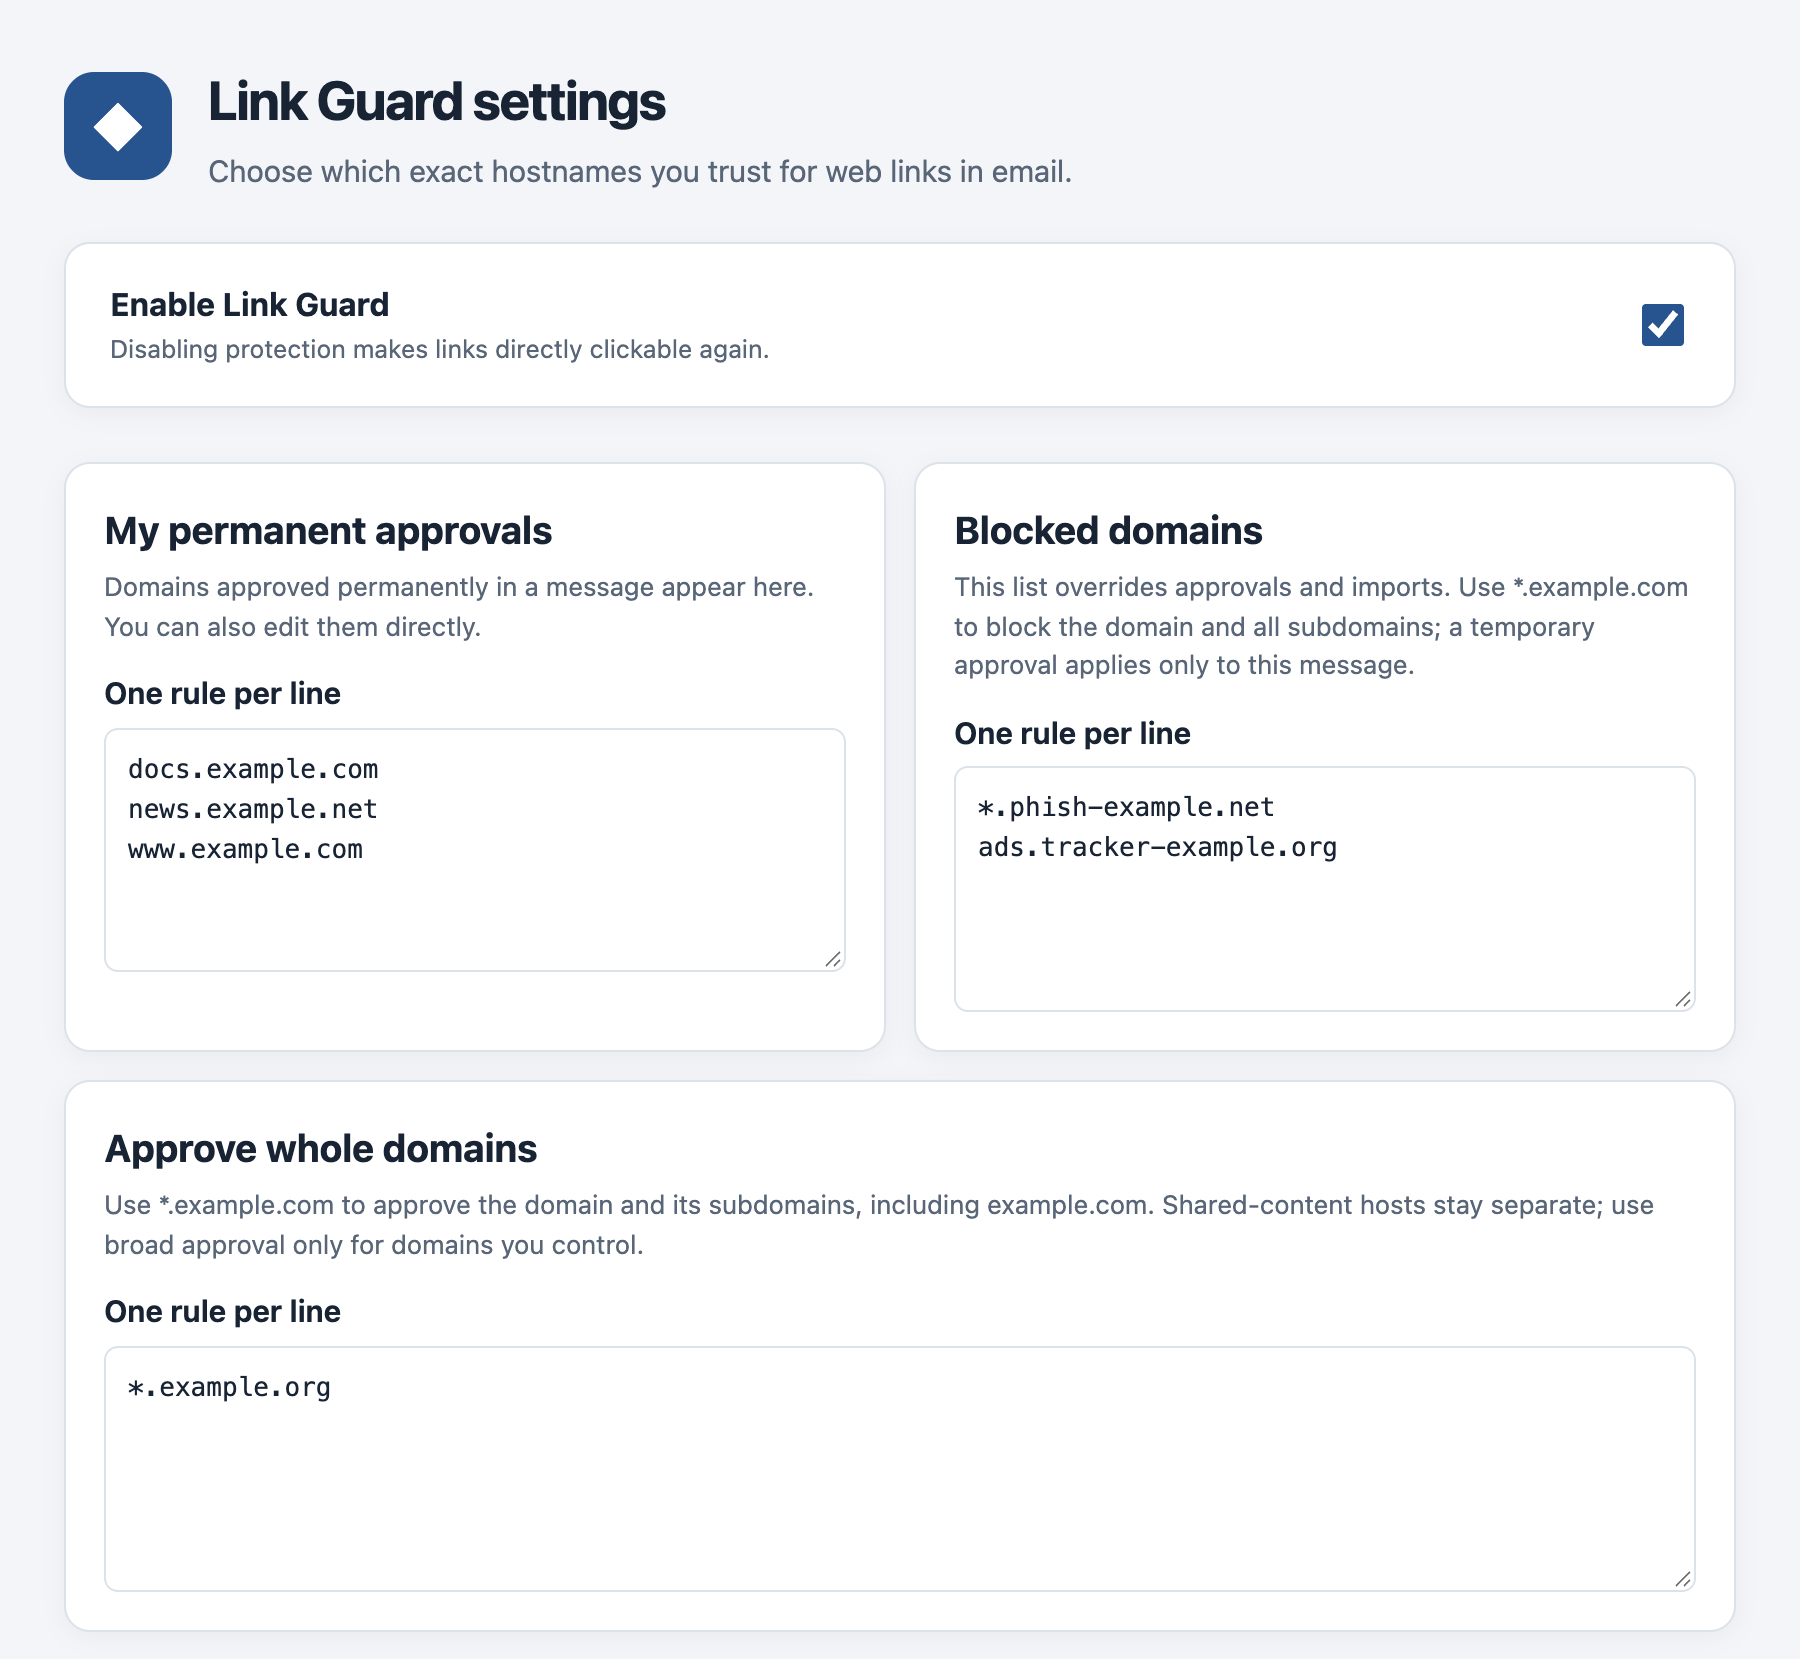
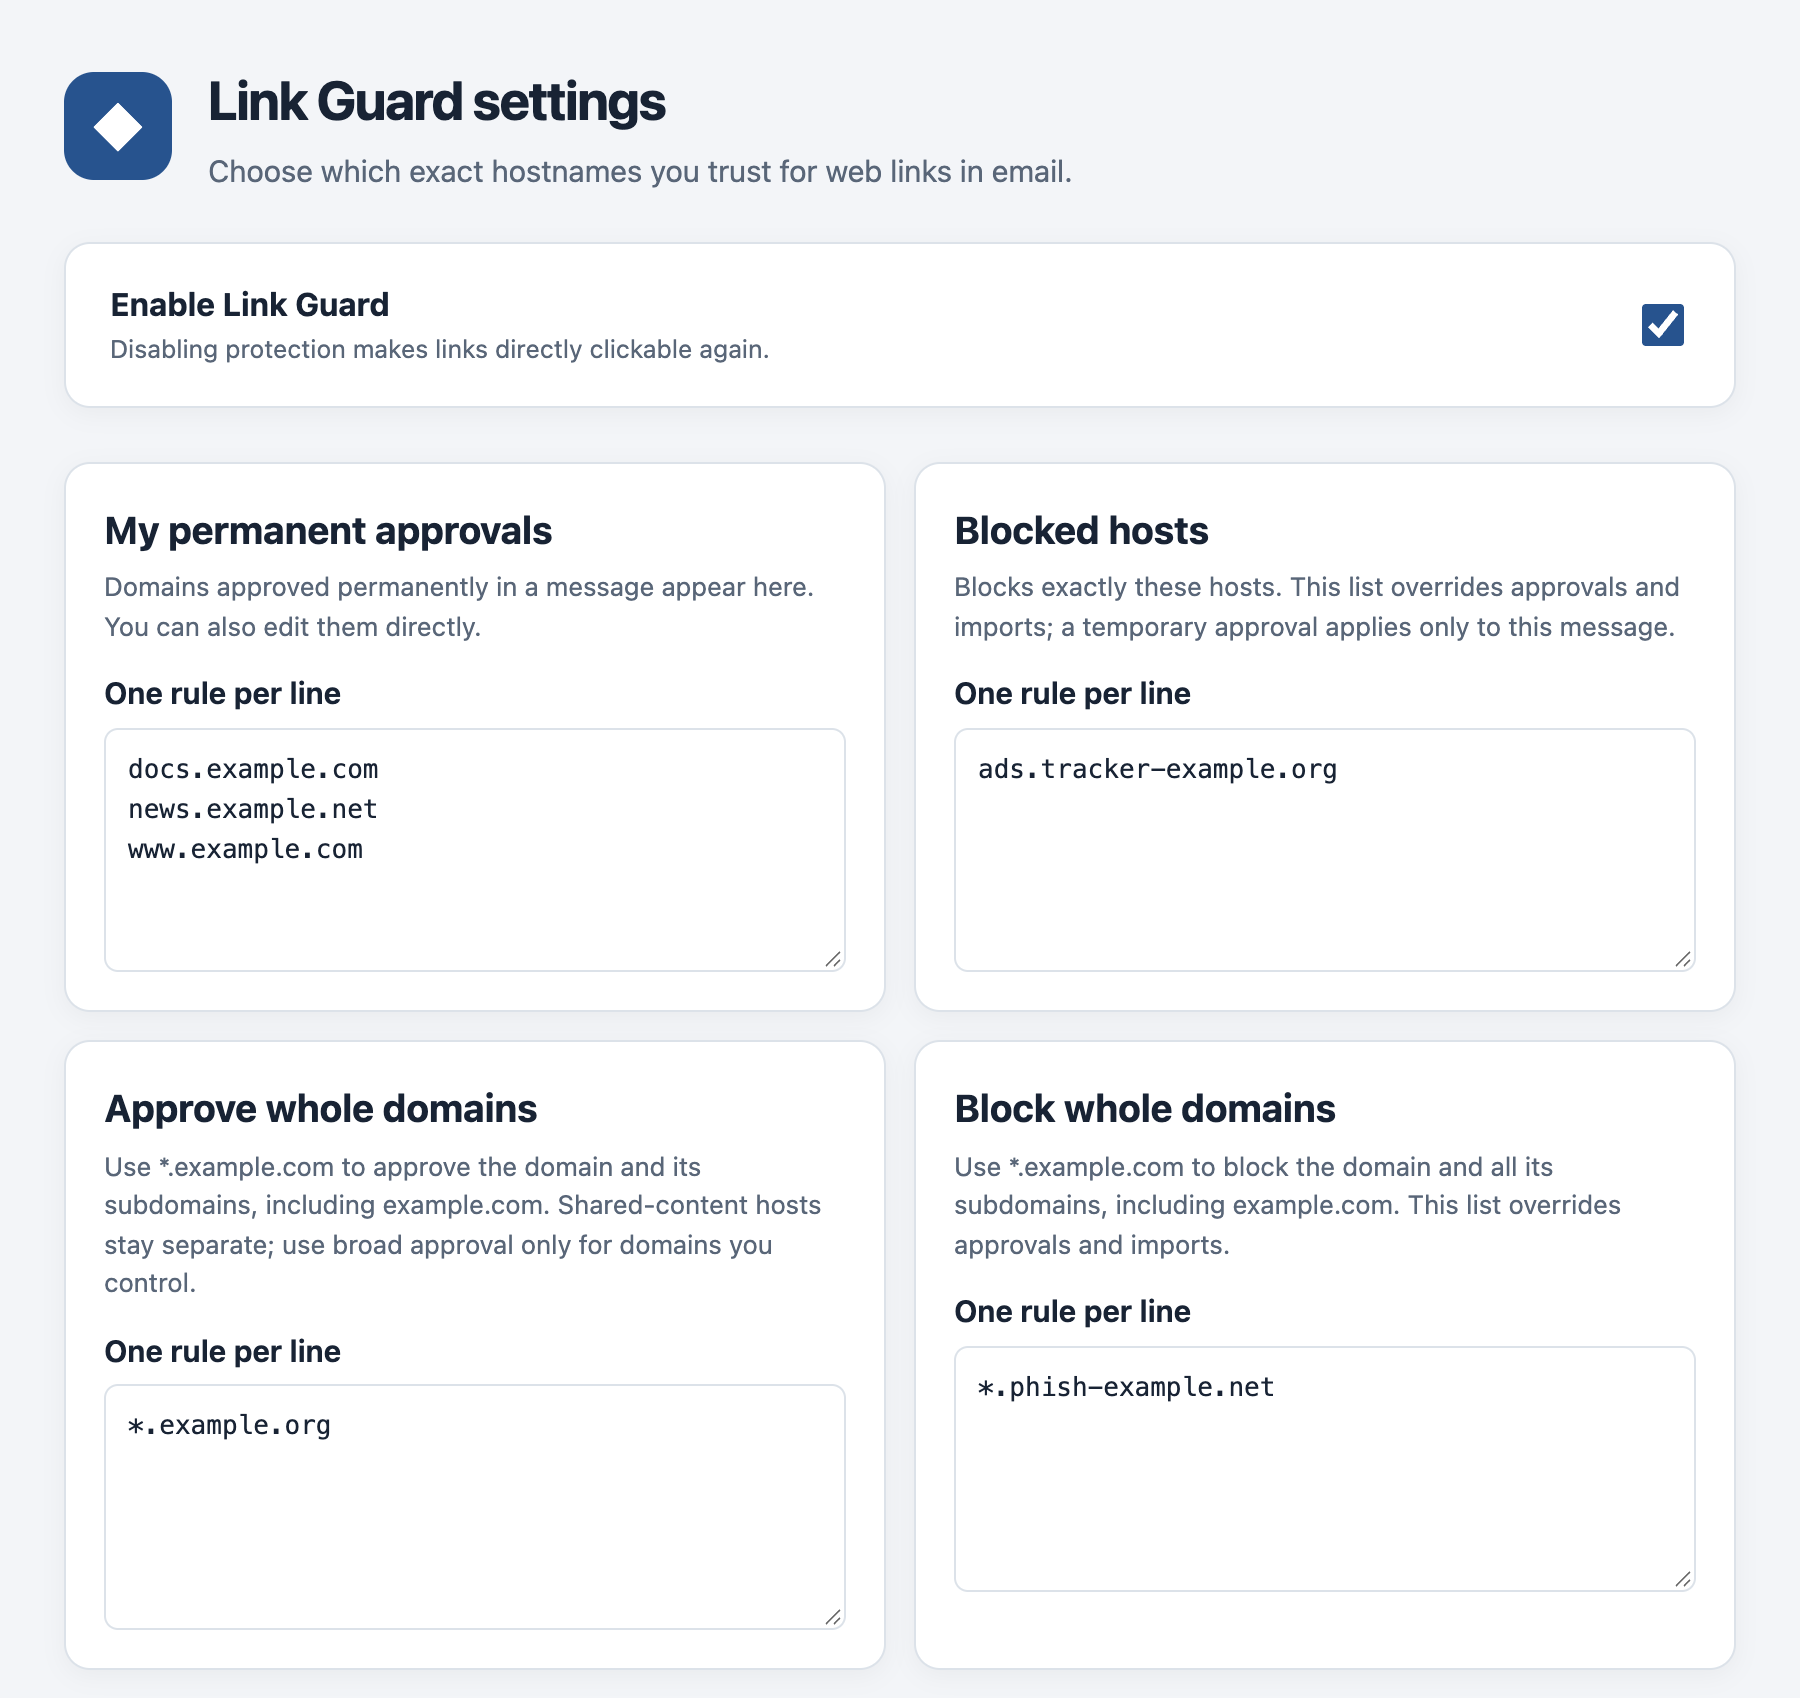
Split settings into separate cards for exact hosts and whole domains
Approvals and blocks now each have an exact-host card and a whole-domain
card. Stored data is unchanged. Adds blockedDomainsTitle/Hint to all 20
locales and refreshes the settings screenshot, README and changelog.

diff --git a/options.js b/options.js
@@ -8,6 +8,7 @@ const enabledInput = document.getElementById("enabled");
 const customInput = document.getElementById("customHosts");
 const blockedInput = document.getElementById("blockedHosts");
 const broadInput = document.getElementById("broadDomains");
+const blockedDomainsInput = document.getElementById("blockedDomains");
 const status = document.getElementById("status");
 const storedKeys = { enabled: true, customAllowedHosts: [], blockedHosts: [],
   blockedDomains: [], broadAllowedDomains: [], importedLists: [] };
@@ -218,8 +219,9 @@ async function load() {
     baseline = snapshot(saved);
     enabledInput.checked = saved.enabled !== false;
     customInput.value = (saved.customAllowedHosts || []).join("\n");
-    blockedInput.value = formatRuleList(saved.blockedHosts || [], saved.blockedDomains || []);
+    blockedInput.value = (saved.blockedHosts || []).join("\n");
     broadInput.value = formatRuleList([], saved.broadAllowedDomains || []);
+    blockedDomainsInput.value = formatRuleList([], saved.blockedDomains || []);
     const imported = document.getElementById("importedLists");
     imported.replaceChildren();
     importedInputs.clear();
@@ -269,9 +271,8 @@ messenger.storage.onChanged.addListener((changes, area) => {
 document.getElementById("save").addEventListener("click", async () => {
   try {
     const customAllowedHosts = readHosts(customInput, t("customTitle"));
-    const blockedRules = readRules(blockedInput, t("blockedTitle"));
-    const blockedHosts = blockedRules.hosts;
-    const blockedDomains = blockedRules.domains;
+    const blockedHosts = readHosts(blockedInput, t("blockedTitle"));
+    const blockedDomains = readRules(blockedDomainsInput, t("blockedDomainsTitle"), true).domains;
     const broadAllowedDomains = readRules(broadInput, t("broadTitle"), true).domains;
     const importedLists = [];
     const importedWildcards = [];
@@ -306,8 +307,9 @@ document.getElementById("save").addEventListener("click", async () => {
     baseline = snapshot(updated);
     dirty = false;
     customInput.value = customAllowedHosts.join("\n");
-    blockedInput.value = formatRuleList(blockedHosts, blockedDomains);
+    blockedInput.value = blockedHosts.join("\n");
     broadInput.value = formatRuleList([], broadAllowedDomains);
+    blockedDomainsInput.value = formatRuleList([], blockedDomains);
     showStatus(t("settingsSaved"));
   } catch (error) {
     showStatus(error.message?.includes(": ") ? error.message : t("settingsSaveFailed"), true);

diff --git a/options.css b/options.css
@@ -50,7 +50,6 @@ input[type="checkbox"] { width: 21px; height: 21px; accent-color: #27538e; curso
 .imported-card textarea { margin-top: 8px; min-height: 98px; }
 .two-column { display: grid; grid-template-columns: repeat(2, minmax(0, 1fr)); gap: 14px; }
 .list-card { padding: 19px; }
-.list-card:last-child { grid-column: 1 / -1; }
 .list-card p { margin-bottom: 12px; font-size: 13px; }
 .list-card label { display: block; margin-bottom: 6px; font-weight: 650; }
 textarea { display: block; width: 100%; resize: vertical; padding: 10px 11px; border: 1px solid var(--line); border-radius: 7px; background: var(--card); color: var(--text); font: 13px/1.55 ui-monospace, SFMono-Regular, Menlo, monospace; }
@@ -73,4 +72,4 @@ input[type="url"]:focus-visible, input[type="file"]:focus-visible { outline: 2px
 #status { margin: 0; min-height: 1.5em; white-space: pre-line; color: var(--muted); }
 #status.error { color: #b02e3e; }
 #save { border: 0; border-radius: 7px; padding: 10px 16px; background: #27538e; color: #fff; font: 650 14px system-ui, sans-serif; cursor: pointer; white-space: nowrap; }
-@media (max-width: 650px) { main { padding: 22px 14px 35px; } .two-column { grid-template-columns: 1fr; } .list-card:last-child { grid-column: auto; } .save-bar, .import-url-row { align-items: stretch; flex-direction: column; } }
+@media (max-width: 650px) { main { padding: 22px 14px 35px; } .two-column { grid-template-columns: 1fr; } .save-bar, .import-url-row { align-items: stretch; flex-direction: column; } }

diff --git a/english.js b/english.js
@@ -266,10 +266,16 @@ globalThis.LinkGuardEnglish = {
     "message": "Domains approved permanently in a message appear here. You can also edit them directly."
   },
   "blockedTitle": {
-    "message": "Blocked domains"
+    "message": "Blocked hosts"
   },
   "blockedHint": {
-    "message": "This list overrides approvals and imports. Use *.example.com to block the domain and all subdomains; a temporary approval applies only to this message."
+    "message": "Blocks exactly these hosts. This list overrides approvals and imports; a temporary approval applies only to this message."
+  },
+  "blockedDomainsTitle": {
+    "message": "Block whole domains"
+  },
+  "blockedDomainsHint": {
+    "message": "Use *.example.com to block the domain and all its subdomains, including example.com. This list overrides approvals and imports."
   },
   "broadTitle": {
     "message": "Approve whole domains"

diff --git a/options.html b/options.html
@@ -45,6 +45,12 @@
         <label for="broadDomains" data-i18n="hostListLabel"></label>
         <textarea id="broadDomains" rows="9" spellcheck="false"></textarea>
       </div>
+      <div class="card list-card">
+        <h2 data-i18n="blockedDomainsTitle"></h2>
+        <p data-i18n="blockedDomainsHint"></p>
+        <label for="blockedDomains" data-i18n="hostListLabel"></label>
+        <textarea id="blockedDomains" rows="9" spellcheck="false"></textarea>
+      </div>
     </section>
 
 

diff --git a/README.md b/README.md
@@ -43,7 +43,7 @@ Rules are evaluated in this order:
 4. Everything else stays inactive until you decide.
 
 <p align="center">
-  <img src="docs/screenshots/settings-rules.png" alt="Settings page with permanent approvals, blocked domains and whole-domain approvals" width="720">
+  <img src="docs/screenshots/settings-rules.png" alt="Settings page with separate cards for approved hosts, blocked hosts, approved whole domains and blocked whole domains" width="720">
 </p>
 
 ## Lists

diff --git a/CHANGELOG.md b/CHANGELOG.md
@@ -1,5 +1,12 @@
 # Changelog
 
+## Unreleased
+
+- Settings: split the rule lists into four separate cards, so exact hosts and
+  whole domains are edited apart for both approvals and blocks. Stored data is
+  unchanged. Blocked whole domains (`*.example.com`) now have their own card
+  instead of sharing the blocked-hosts list.
+
 ## 0.11.0 — 2026-11-08
 
 - Add ten UI languages: Czech, Danish, Dutch, Finnish, Hungarian, Korean,
